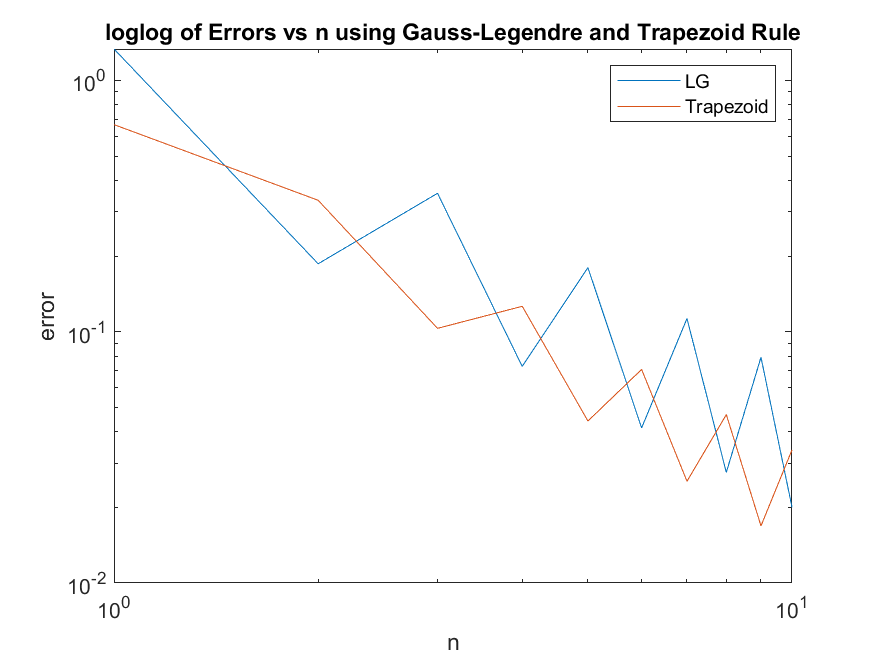
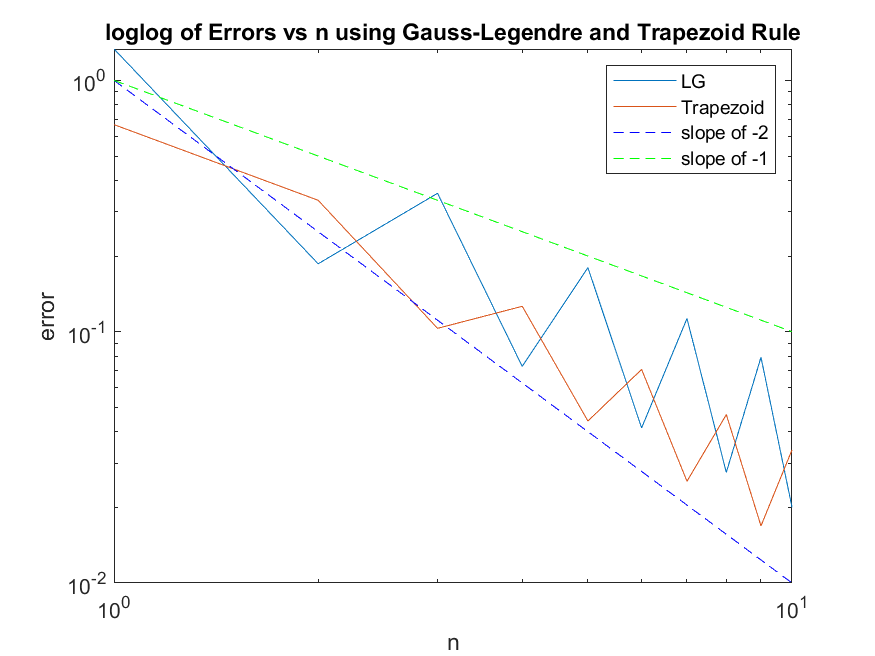
modify figure 3 to show slopes

Changed region(s): [[0.7714, 0.0915, 0.8949, 0.2744], [0.1234, 0.122, 0.1543, 0.1524]]

diff --git a/HW4/plotq3.m b/HW4/plotq3.m
@@ -16,12 +16,22 @@ for j = 1:10
     err2 = abs(app2-exactval);
     errs2 = [errs2 err2];
 end
+sl = @(x) x.^(-2);
+ys = sl(n);
+sl2 = @(x) x.^(-1);
+ys2= sl2(n);
 loglog(n, errs)
 hold on
 loglog(n,errs2)
 hold off
+hold on
+loglog(n,ys,'b--')
+hold off
+hold on 
+loglog(n,ys2, 'g--')
+hold off
 title('loglog of Errors vs n using Gauss-Legendre and Trapezoid Rule')
 xlabel('n')
 ylabel('error')
-legend('LG', 'Trapezoid')
+legend('LG', 'Trapezoid', 'slope of -2', 'slope of -1')
 saveas(gcf, '3.png')
